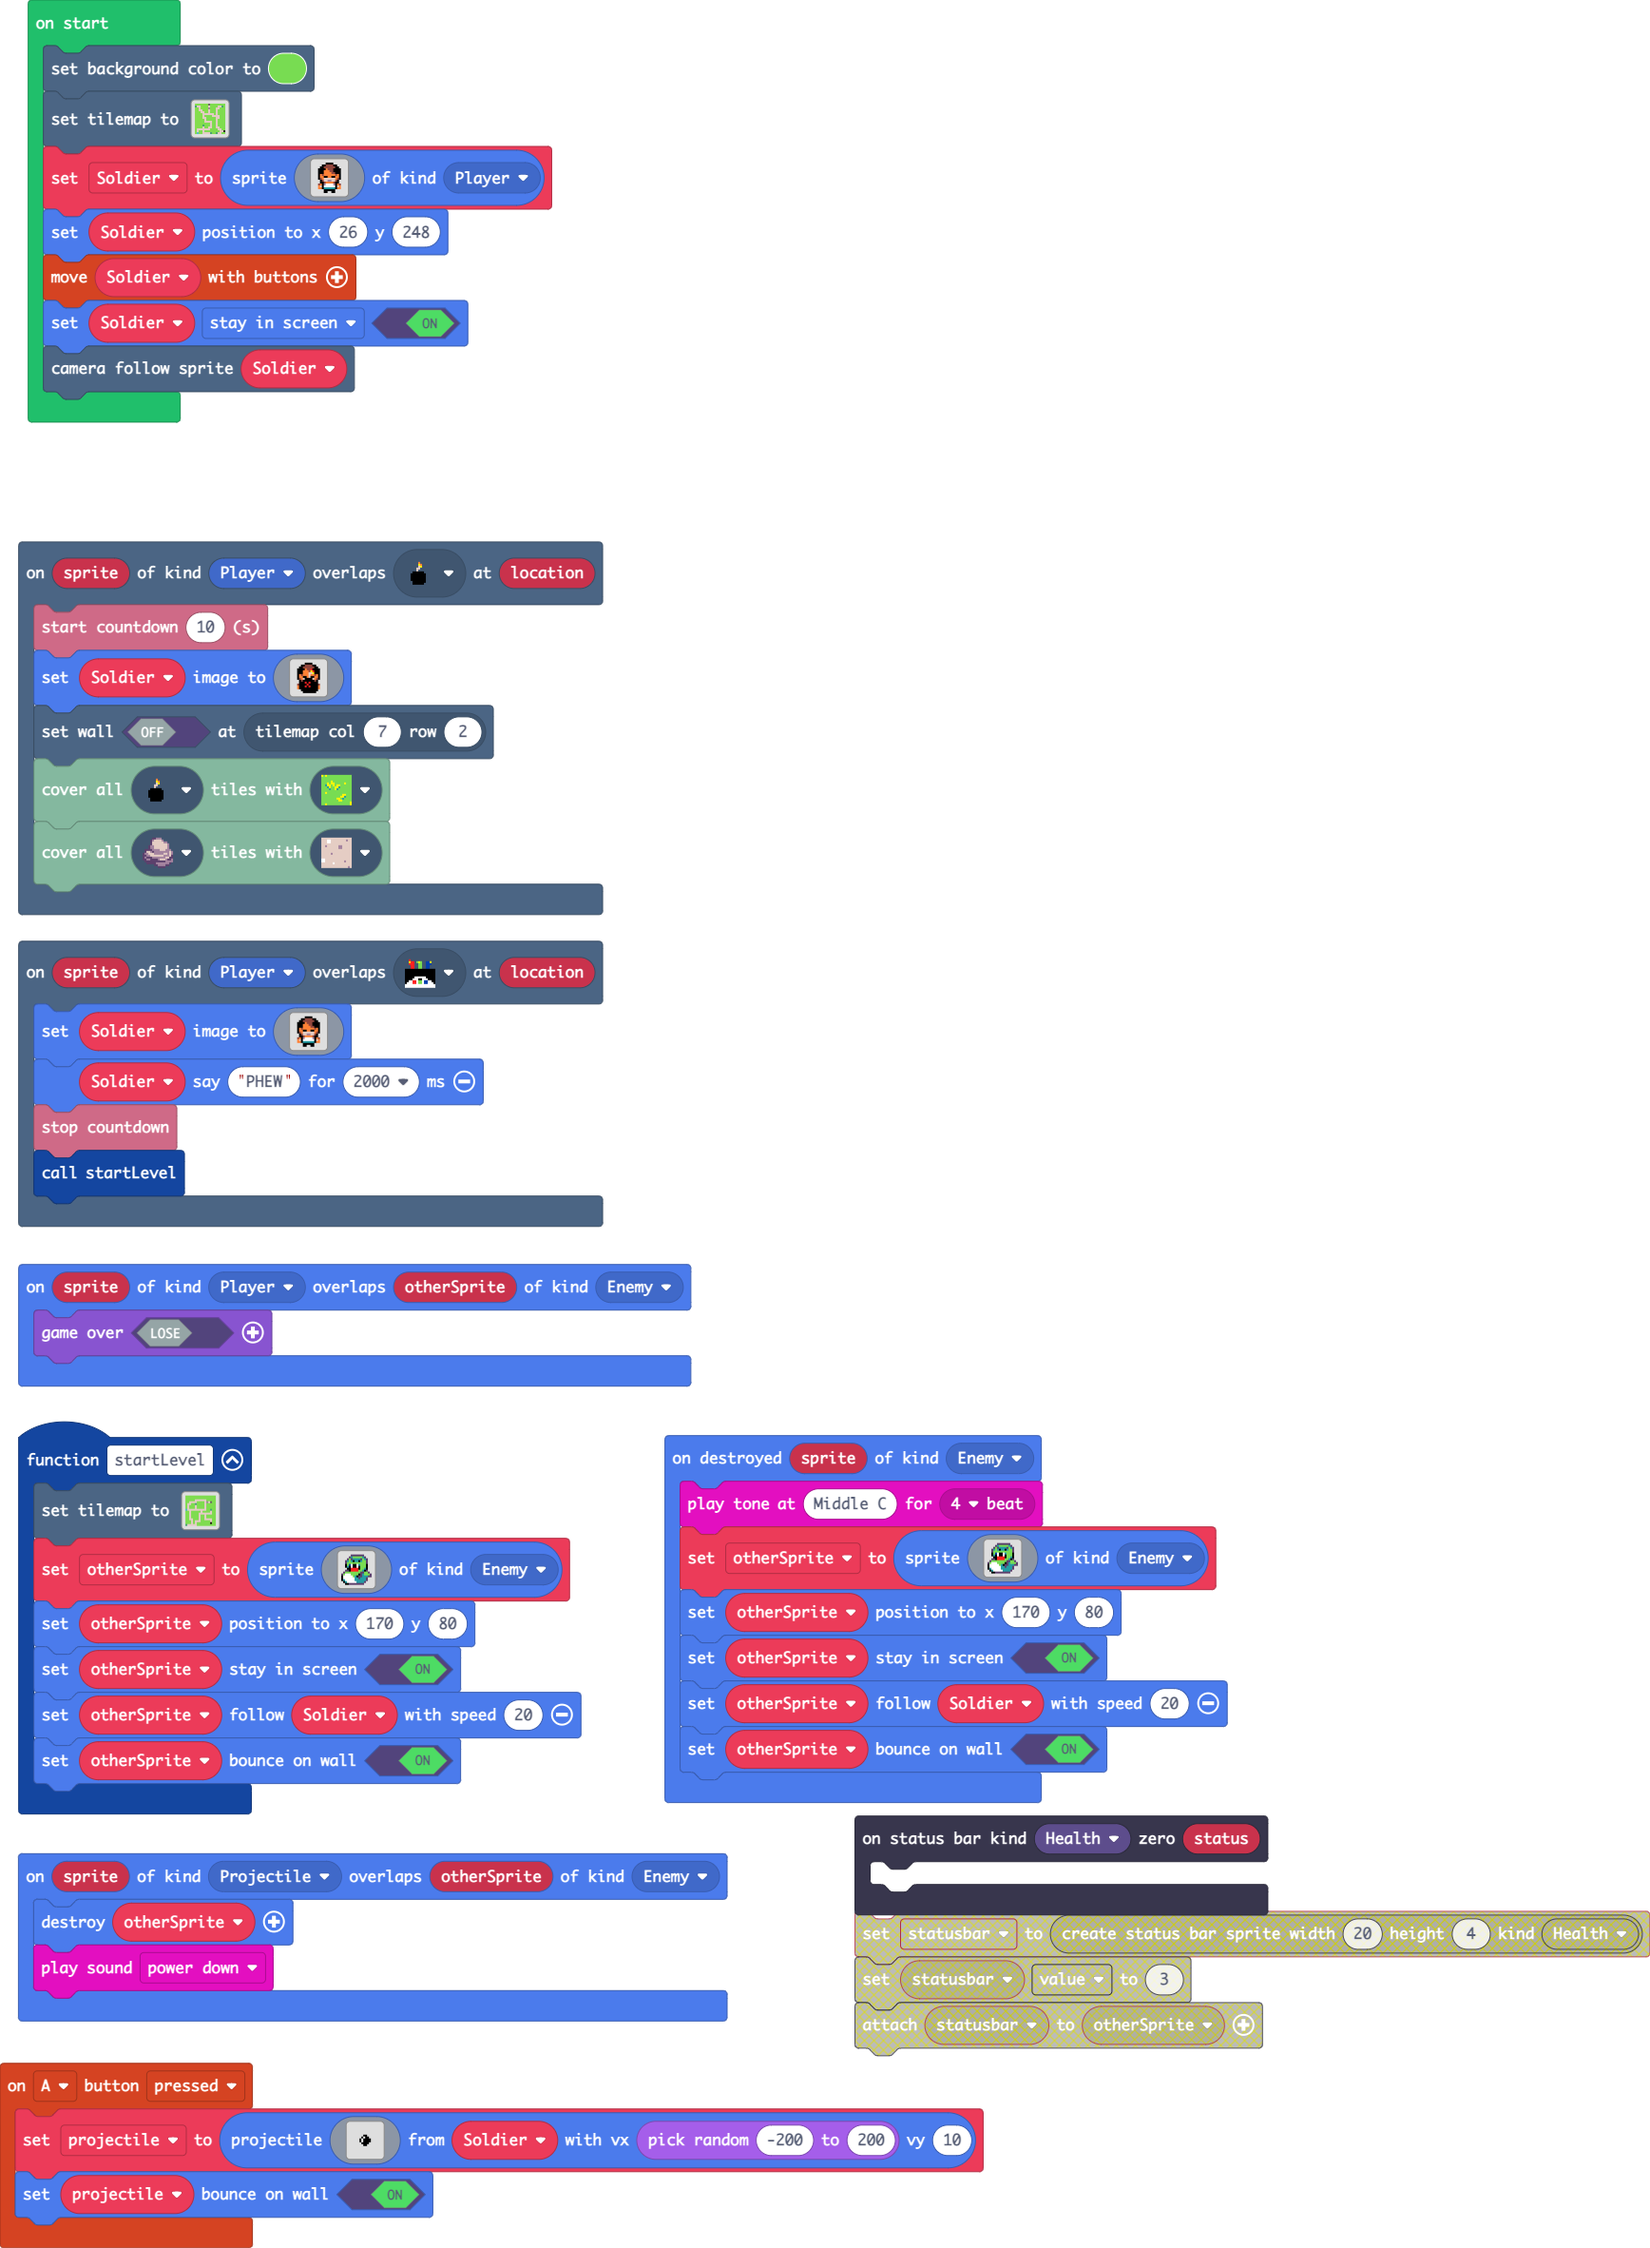
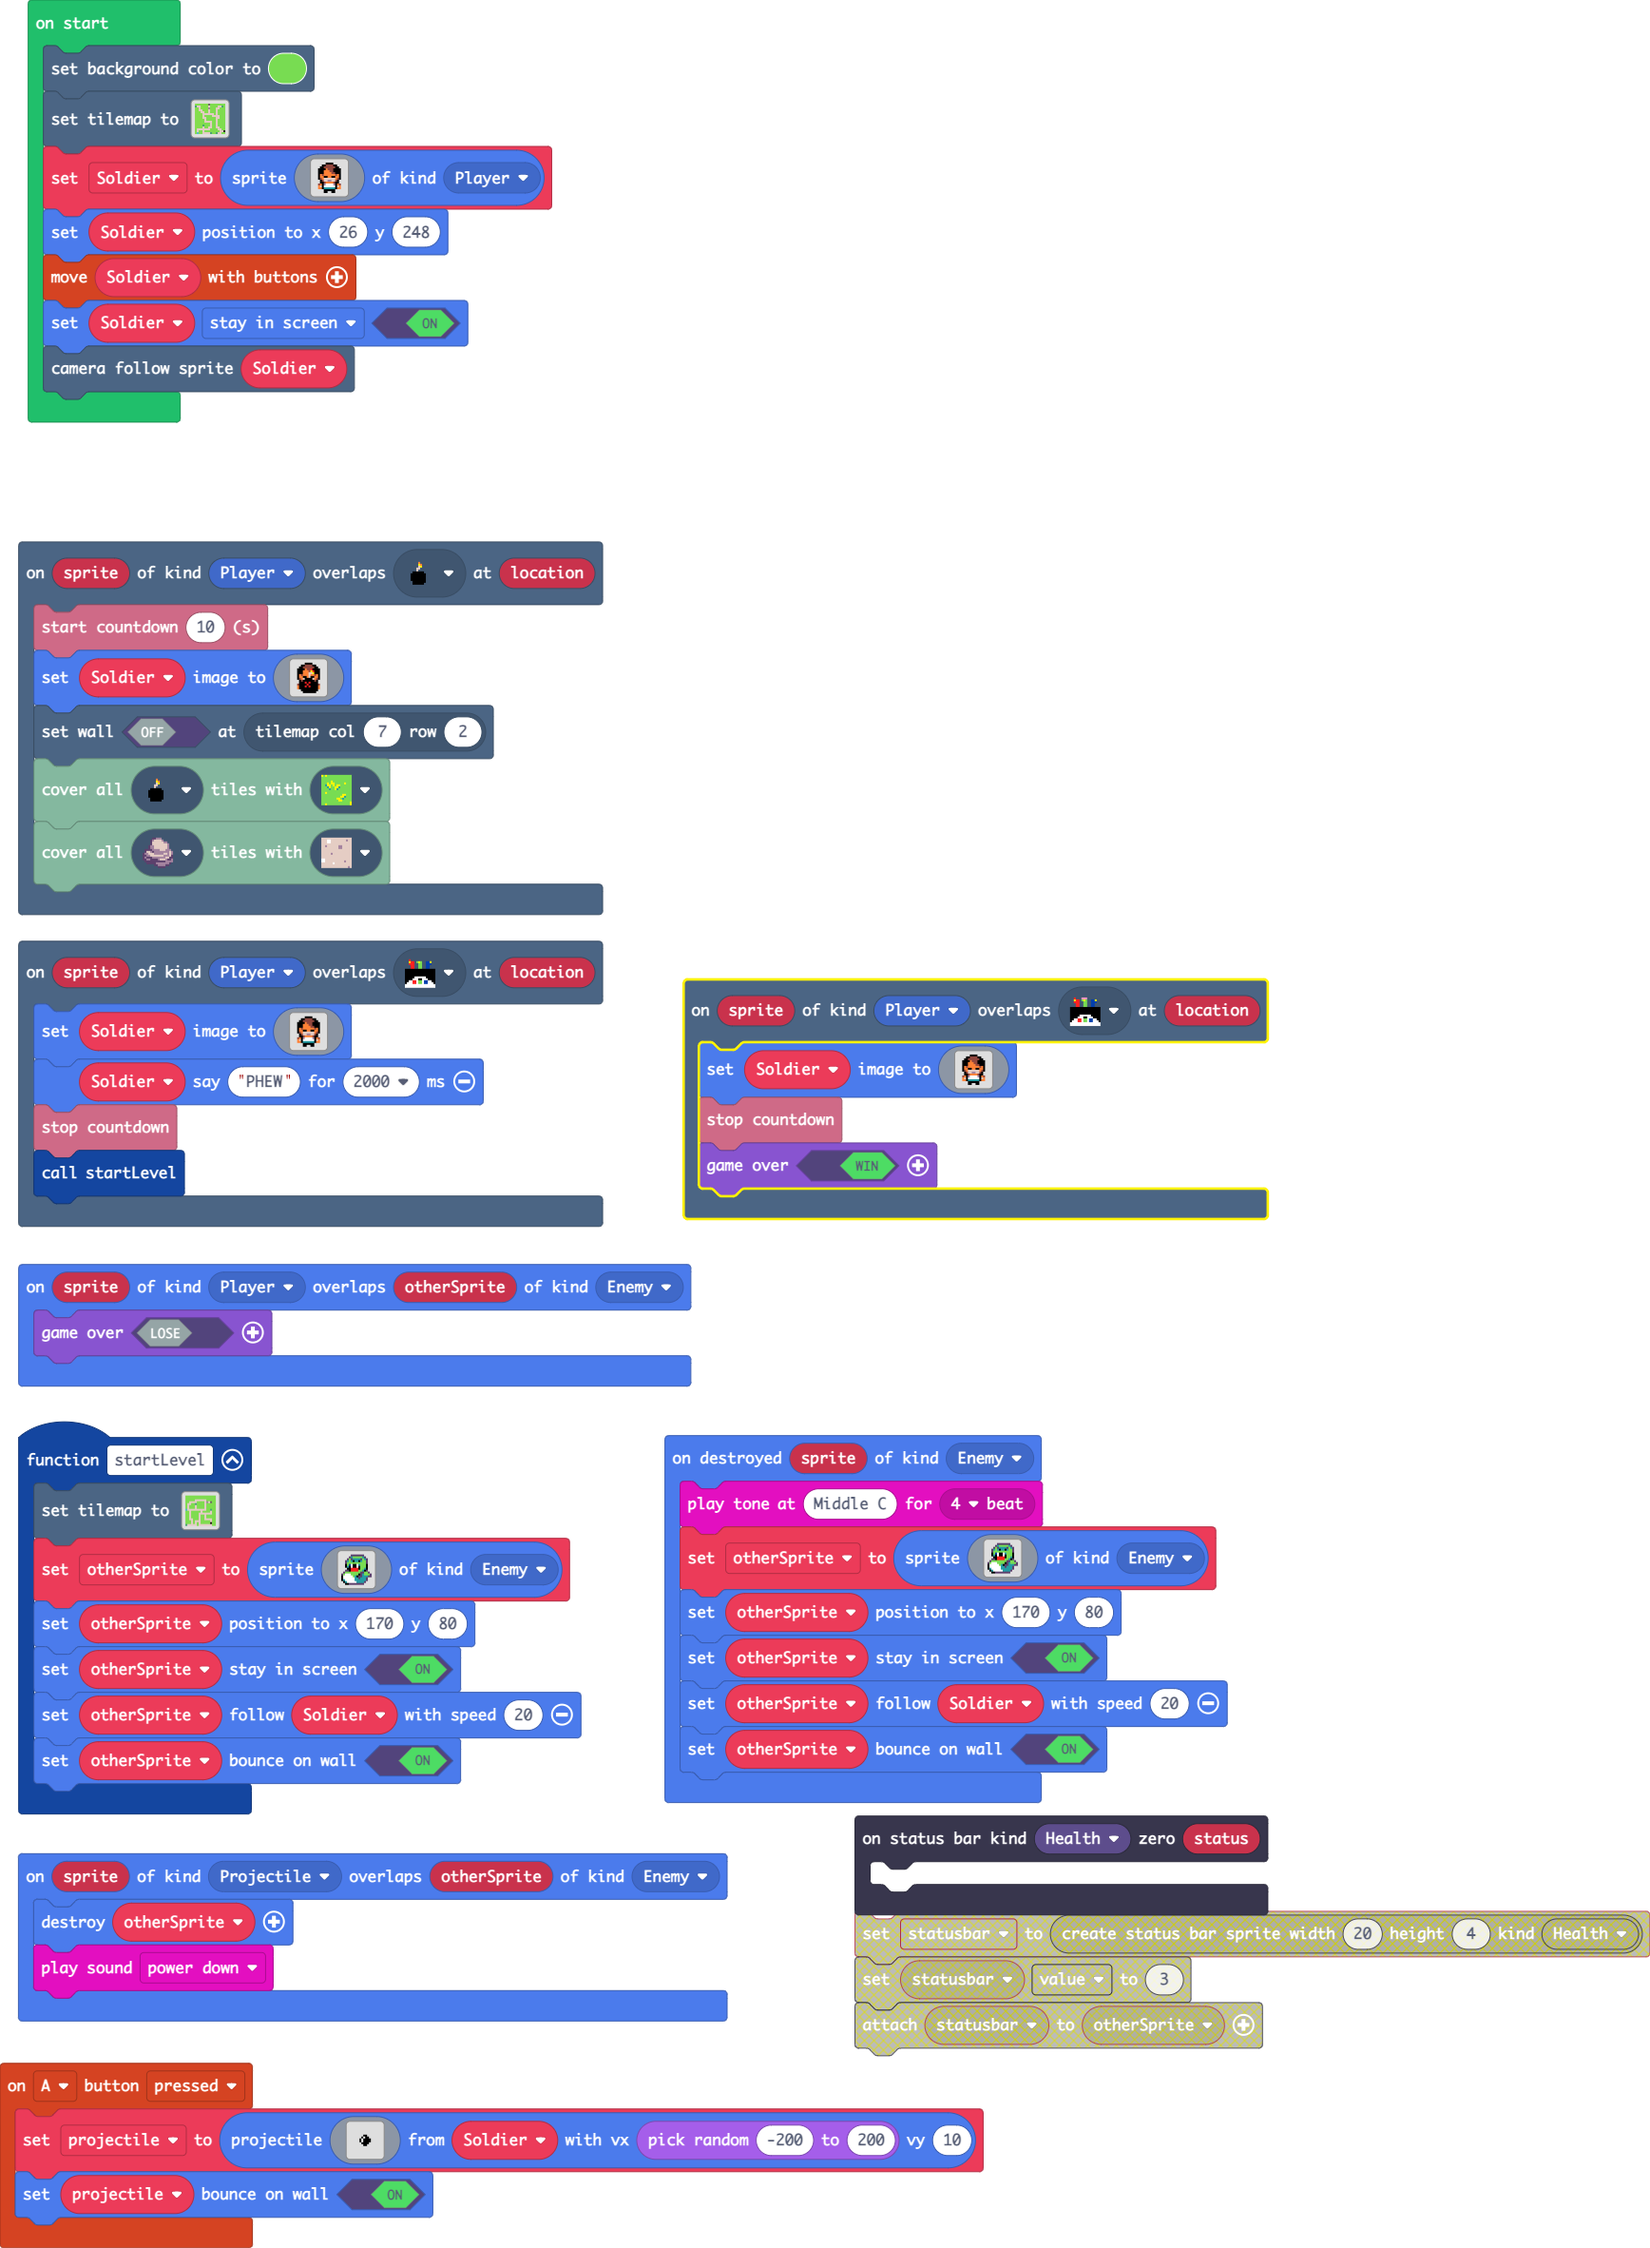
finsh

Changed region(s): [[0.4044, 0.4323, 0.7776, 0.5558]]

diff --git a/tilemap.g.ts b/tilemap.g.ts
@@ -8,6 +8,8 @@ namespace myTiles {
     export const tile2 = image.ofBuffer(hex``);
     //% fixedInstance jres blockIdentity=images._tile
     export const tile3 = image.ofBuffer(hex``);
+    //% fixedInstance jres blockIdentity=images._tile
+    export const tile4 = image.ofBuffer(hex``);
 
     helpers._registerFactory("tilemap", function(name: string) {
         switch(helpers.stringTrim(name)) {
@@ -88,7 +90,7 @@ namespace myTiles {
 2 . 2 2 . . . . 2 2 2 2 . . 2 2 
 `, [myTiles.transparency16,sprites.castle.tileGrass3,sprites.castle.tileGrass1,sprites.castle.tilePath5,myTiles.tile1,myTiles.tile3,sprites.builtin.forestTiles0,sprites.dungeon.collectibleInsignia,sprites.castle.rock0], TileScale.Sixteen);
             case "level2":
-            case "level2":return tiles.createTilemap(hex`1000100007070707070707070707070707070707070707070707070707070707070707070707070707030303030303070707070707070303030307070707030503010707070303070706070707070307070707070703070707030707070703070707070707030707070307070707030707070707040303030303030303030307070607070707030707070707030707070703070707070307070707030303030303030707070703070707070307070307070707070707030707070703070703070707070707070303070707030707030303030707070707030703030307070707070307070707070307030707070707070702070706030303030307070707070707070707`, img`
+            case "level2":return tiles.createTilemap(hex`1000100007070707070707070707070707070707070707070707070707070707070707070707070707030303030303070707070707070303030307070707030503080707070303070706070707070307070707070703070707030707070703070707070707030707070307070707030707070707040303030303030303030307070607070707030707070707030707070703070707070307070707030303030303030707070703070707070307070307070707070707030707070703070703070707070707070303070707030707030303030707070707030703030307070707070307070707070307030703070707070702070706030303030307030303030303030707`, img`
 2 2 2 2 2 2 2 2 2 2 2 2 2 2 2 2 
 2 2 2 2 2 2 2 2 2 2 2 2 2 2 2 2 
 2 2 2 2 2 . . . . . . 2 2 2 2 2 
@@ -103,9 +105,9 @@ namespace myTiles {
 2 2 . 2 2 2 2 . 2 2 . 2 2 2 2 2 
 2 2 . . 2 2 2 . 2 2 . . . . 2 2 
 2 2 2 . 2 . . . 2 2 2 2 2 . 2 2 
-2 2 2 . 2 . 2 2 2 2 2 2 2 . 2 2 
-2 . . . . . 2 2 2 2 2 2 2 2 2 2 
-`, [myTiles.transparency16,myTiles.tile1,myTiles.tile3,sprites.castle.tilePath5,sprites.dungeon.collectibleInsignia,sprites.castle.rock0,sprites.builtin.forestTiles0,sprites.castle.tileGrass1], TileScale.Sixteen);
+2 2 2 . 2 . 2 . 2 2 2 2 2 . 2 2 
+2 . . . . . 2 . . . . . . . 2 2 
+`, [myTiles.transparency16,myTiles.tile1,myTiles.tile3,sprites.castle.tilePath5,sprites.dungeon.collectibleInsignia,sprites.castle.rock0,sprites.builtin.forestTiles0,sprites.castle.tileGrass1,myTiles.tile4], TileScale.Sixteen);
         }
         return null;
     })
@@ -116,6 +118,7 @@ namespace myTiles {
             case "tile1":return tile1;
             case "tile2":return tile2;
             case "tile3":return tile3;
+            case "tile4":return tile4;
         }
         return null;
     })

diff --git a/images.g.ts b/images.g.ts
@@ -93,24 +93,6 @@ f 6 1 1 1 1 1 6 6 6 6 6 6 c . .
 . . . . . . . . . . . . . . . . 
 . . . . . . . . . . . . . . . . 
 `;
-            case "image6":return img`
-. . . . . c c c c c c c . . . . 
-. . . . c 6 7 7 7 7 7 6 c . . . 
-. . . c 7 c 6 6 6 6 c 7 6 c . . 
-. . c 6 7 6 f 6 6 f 6 7 7 c . . 
-. . c 7 7 7 7 7 7 7 7 7 7 c . . 
-. . f 7 8 1 f f 1 6 7 7 7 f . . 
-. . f 6 f 1 f f 1 f 7 7 7 f . . 
-. . . f f 2 2 2 2 f 7 7 6 f . . 
-. . c c f 2 2 2 2 7 7 6 f c . . 
-. c 7 7 7 7 7 7 7 7 c c 7 7 c . 
-c 7 1 1 1 7 7 7 7 f c 6 7 7 7 c 
-f 1 1 1 1 1 7 6 f c c 6 6 6 c c 
-f 1 1 1 1 1 1 6 6 c 6 6 6 c . . 
-f 6 1 1 1 1 1 6 6 6 6 6 6 c . . 
-. f 6 1 1 1 1 1 6 6 6 6 c . . . 
-. . f f c c c c c c c c . . . . 
-`;
             case "image7":return img`
 . . . . . c c c c c c c . . . . 
 . . . . c 6 7 7 7 7 7 6 c . . . 
@@ -128,6 +110,42 @@ f 1 1 1 1 1 1 6 6 c 6 6 6 c . .
 f 6 1 1 1 1 1 6 6 6 6 6 6 c . . 
 . f 6 1 1 1 1 1 6 6 6 6 c . . . 
 . . f f c c c c c c c c . . . . 
+`;
+            case "image6":return img`
+. . . . f f f f . . . . 
+. . f f e e e e f f . . 
+. f f e e e e e e f f . 
+f f f f 4 e e e f f f f 
+f f f 4 4 4 e e f f f f 
+f f f 4 4 4 4 e e f f f 
+f 4 e 4 4 4 4 4 4 e 4 f 
+f 4 4 f f 4 4 f f 4 4 f 
+f e 4 d d d d d d 4 e f 
+. f e d d b b d d e f . 
+. f f e 4 4 4 4 e f f . 
+e 4 f b 1 1 1 1 b f 4 e 
+4 d f 1 1 1 1 1 1 f d 4 
+4 4 f 6 6 6 6 6 6 f 4 4 
+. . . f f f f f f . . . 
+. . . f f . . f f . . . 
+`;
+            case "image8":return img`
+. . . . f f f f . . . . 
+. . f f e e e e f f . . 
+. f f e e e e e e f f . 
+f f f f 4 e e e f f f f 
+f f f 4 4 4 e e f f f f 
+f f f 4 4 4 4 e e f f f 
+f 4 e 4 4 4 4 4 4 e 4 f 
+f 4 4 f f 4 4 f f 4 4 f 
+f e 4 d d d d d d 4 e f 
+. f e d d b b d d e f . 
+. f f e 4 4 4 4 e f f . 
+e 4 f b 1 1 1 1 b f 4 e 
+4 d f 1 1 1 1 1 1 f d 4 
+4 4 f 6 6 6 6 6 6 f 4 4 
+. . . f f f f f f . . . 
+. . . f f . . f f . . . 
 `;
         }
         return null;

diff --git a/main.ts b/main.ts
@@ -1,6 +1,28 @@
 namespace SpriteKind {
     export const Enemy1 = SpriteKind.create()
 }
+scene.onOverlapTile(SpriteKind.Player, assets.tile`tile4`, function (sprite, location) {
+    Soldier.setImage(img`
+        . . . . f f f f . . . . 
+        . . f f e e e e f f . . 
+        . f f e e e e e e f f . 
+        f f f f 4 e e e f f f f 
+        f f f 4 4 4 e e f f f f 
+        f f f 4 4 4 4 e e f f f 
+        f 4 e 4 4 4 4 4 4 e 4 f 
+        f 4 4 f f 4 4 f f 4 4 f 
+        f e 4 d d d d d d 4 e f 
+        . f e d d b b d d e f . 
+        . f f e 4 4 4 4 e f f . 
+        e 4 f b 1 1 1 1 b f 4 e 
+        4 d f 1 1 1 1 1 1 f d 4 
+        4 4 f 6 6 6 6 6 6 f 4 4 
+        . . . f f f f f f . . . 
+        . . . f f . . f f . . . 
+        `)
+    info.stopCountdown()
+    game.over(true)
+})
 controller.A.onEvent(ControllerButtonEvent.Pressed, function () {
     projectile = sprites.createProjectileFromSprite(img`
         . . . . . . . . . . . . . . . . 
